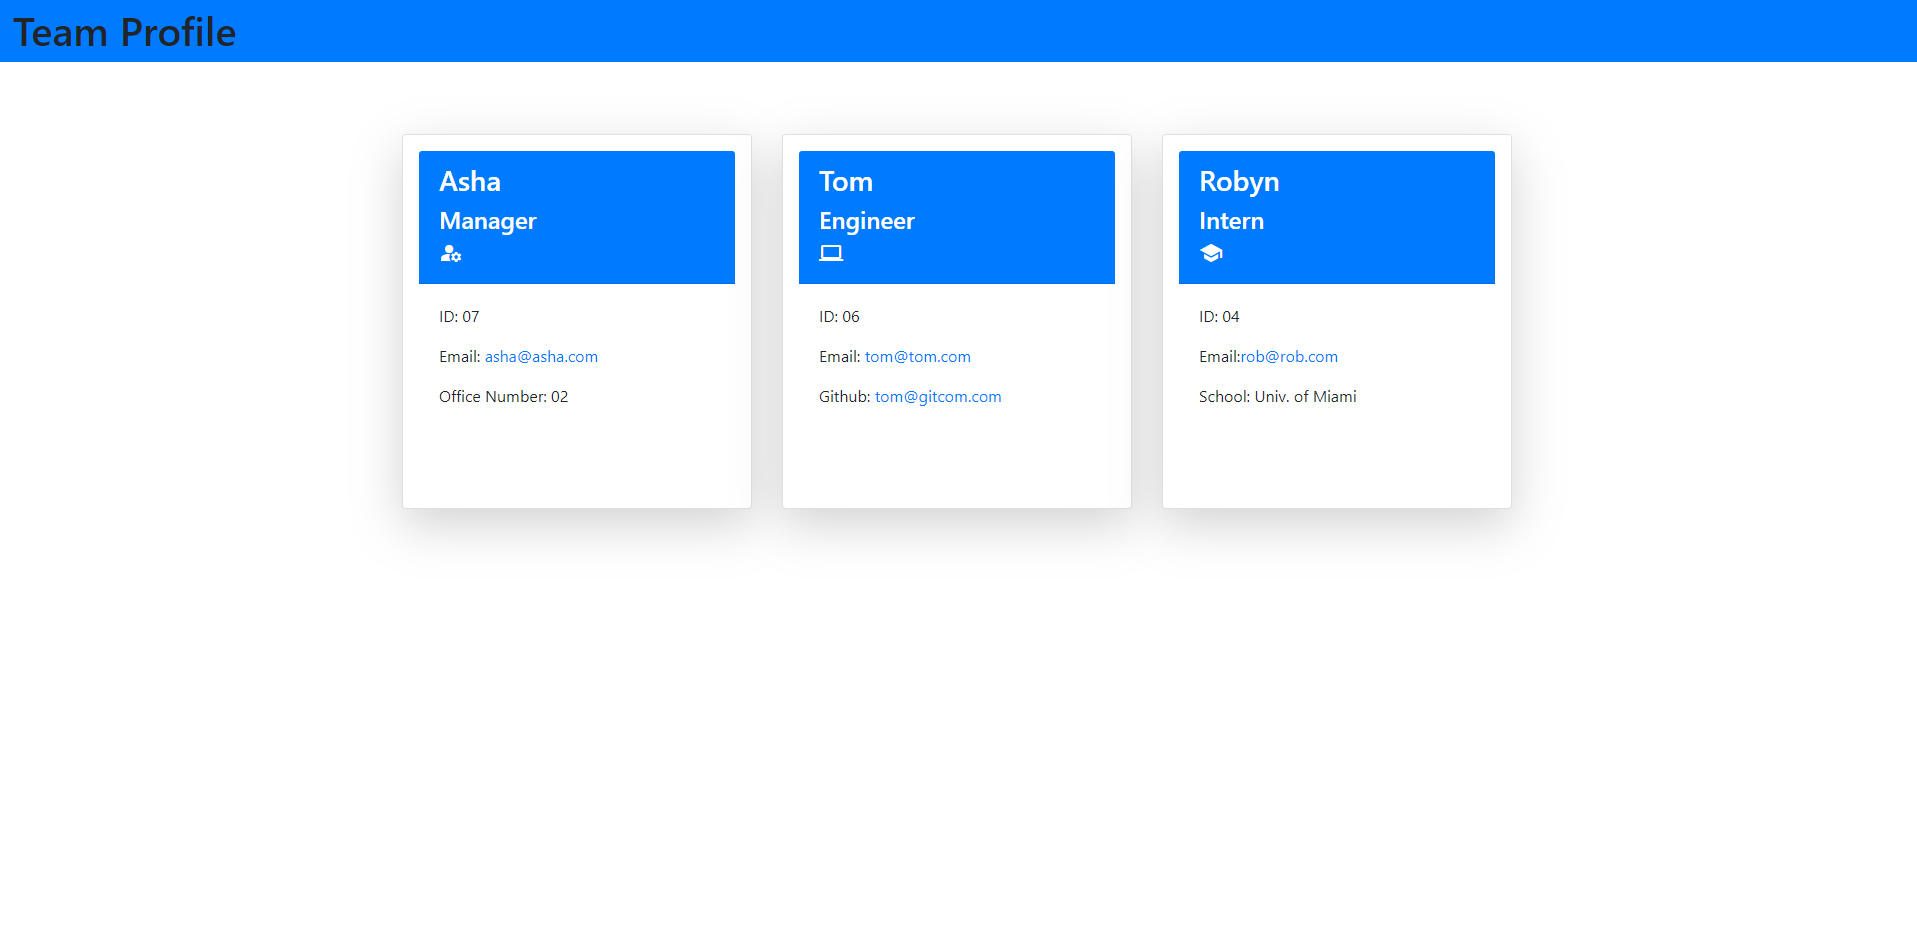
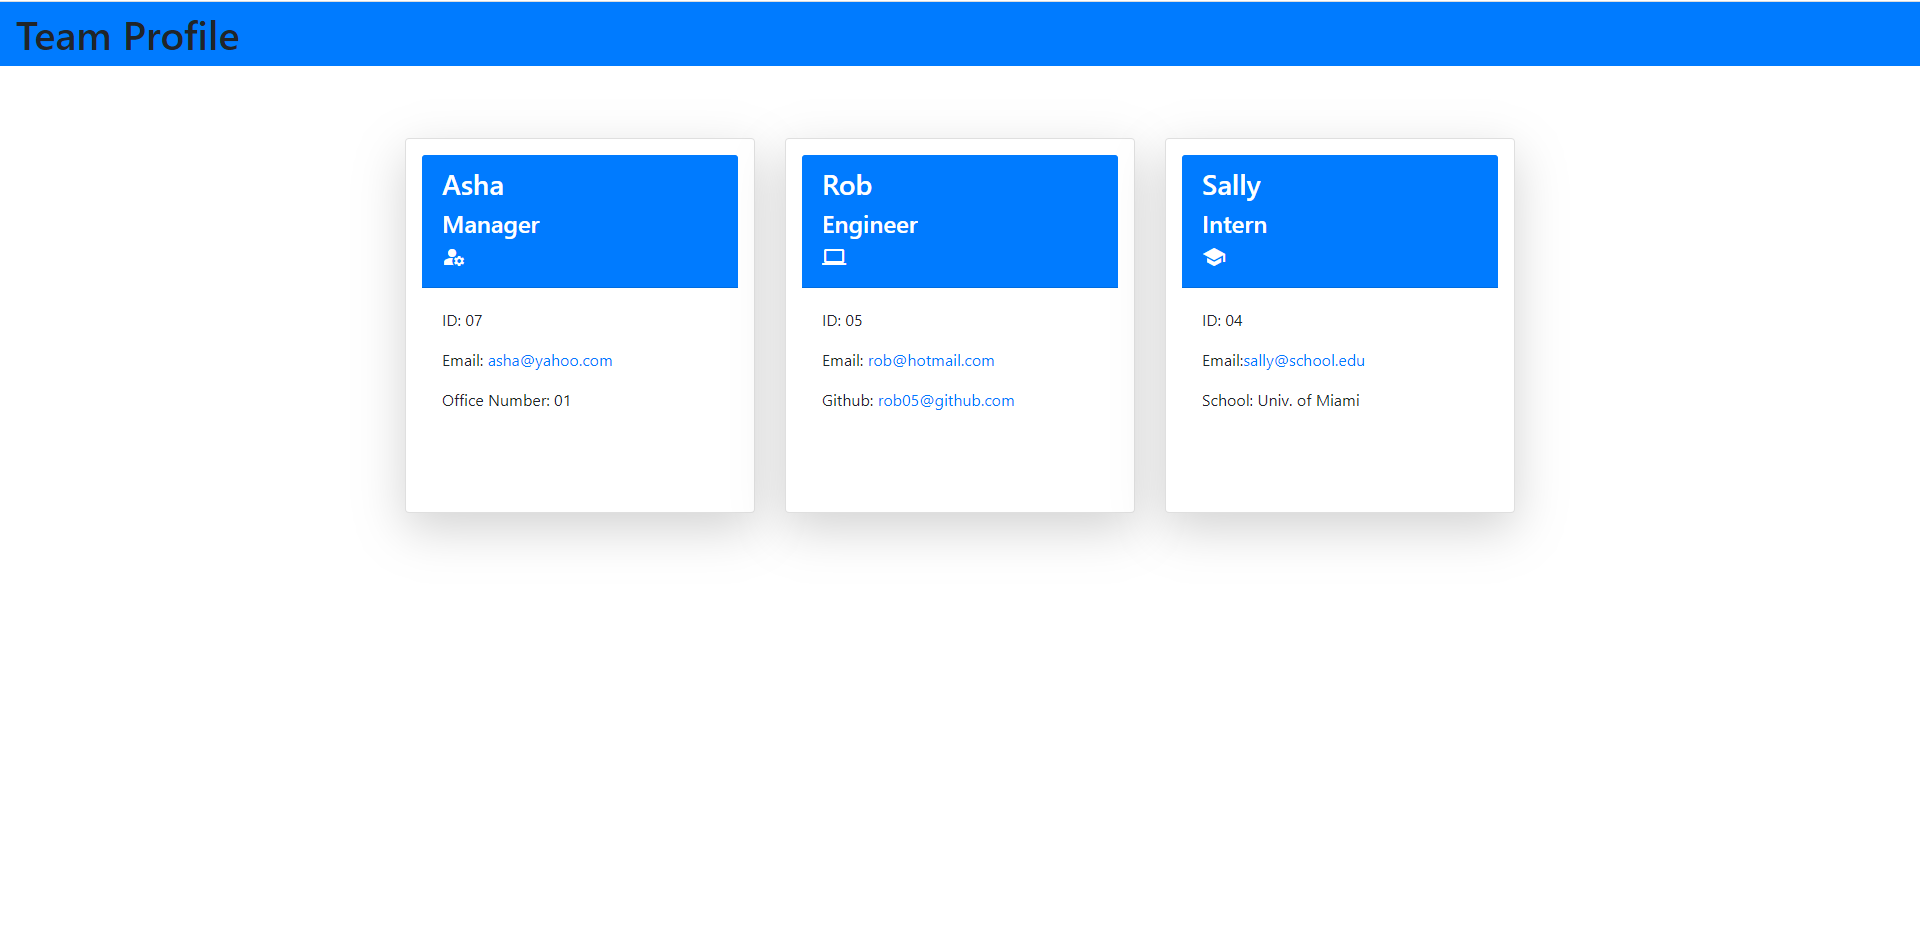
fixed tests

diff --git a/dist/index.html b/dist/index.html
@@ -30,8 +30,8 @@
               </div>
               <div class="card-body">
                   <p class="id">ID: 07</p>
-                  <p class="email">Email: <a href="mailto:asha@asha.com">asha@asha.com</a></p>
-                  <p class="office">Office Number: 02</p>
+                  <p class="email">Email: <a href="mailto:asha@yahoo.com">asha@yahoo.com</a></p>
+                  <p class="office">Office Number: 01</p>
               </div>
           </div>
       </div>
@@ -39,13 +39,13 @@
       <div class="col-4 mt-4">
           <div class="card h-100 shadow-lg p-3 mb-5 bg-white rounded">
               <div class="card-header bg-primary text-white">
-                  <h3>Tom</h3>
+                  <h3>Rob</h3>
                   <h4>Engineer</h4><i class="material-icons">laptop</i>
               </div>
               <div class="card-body">
-                  <p class="id">ID: 06</p>
-                  <p class="email">Email: <a href="mailto:tom@tom.com">tom@tom.com</a></p>
-                  <p class="github">Github: <a href="https://github.com/tom@gitcom.com">tom@gitcom.com</a></p>
+                  <p class="id">ID: 05</p>
+                  <p class="email">Email: <a href="mailto:rob@hotmail.com">rob@hotmail.com</a></p>
+                  <p class="github">Github: <a href="https://github.com/rob05@github.com">rob05@github.com</a></p>
               </div>
           </div>
       </div>
@@ -53,12 +53,12 @@
       <div class="col-4 mt-4">
           <div class="card h-100 shadow-lg p-3 mb-5 bg-white rounded">
               <div class="card-header bg-primary text-white">
-                  <h3>Robyn</h3>
+                  <h3>Sally</h3>
                   <h4>Intern</h4><i class="material-icons">school</i>
               </div>
               <div class="card-body">
                   <p class="id">ID: 04</p>
-                  <p class="email">Email:<a href="mailto:rob@rob.com">rob@rob.com</a></p>
+                  <p class="email">Email:<a href="mailto:sally@school.edu">sally@school.edu</a></p>
                   <p class="school">School: Univ. of Miami</p>
               </div>
       </div>

diff --git a/__test__/Engineer.test.js b/__test__/Engineer.test.js
@@ -21,15 +21,14 @@ test("gets the engineer's role", () => {
   );
 
   expect(engineer.getRole()).toEqual("Engineer");
+});
 
-  test("gets the engineer's github", () => {
-    const engineer = new Engineer(
-      "John",
-      777,
-      "testname@test.com",
-      "GitHubusername"
-    );
-
-    expect(engineer.getGithub()).toEqual(expect.any(String));
-  });
+test("gets the engineer's github", () => {
+  const engineer = new Engineer(
+    "John",
+    777,
+    "testname@test.com",
+    "GitHubusername"
+  );
+  expect(engineer.getGithub()).toEqual(expect.any(String));
 });

diff --git a/README.md b/README.md
@@ -28,9 +28,10 @@ Built a Node.js command-line application that takes in information about employe
 
 ## Installation
 
+1. To run tests `npm run test`
 1. Npm i
-2. run node index.js
-3. Open index.html
+1. run node index.js
+1. Open index.html
 
 ## Contribution
 
@@ -48,7 +49,7 @@ Click the following link to visit the webpage:
 
 ### Walkthrough Videos
 
-[Tutorial]https://drive.google.com/file/d/1tAXxofTujnhfIDynvzewlUbdtXpz3vsU/view<br />
+[Tutorial](https://drive.google.com/file/d/1TcPolbosego1NLI8pTq4RBRD0Dm1bC5g/view)<br />
 
 ### URL of the GitHub repository:
 
